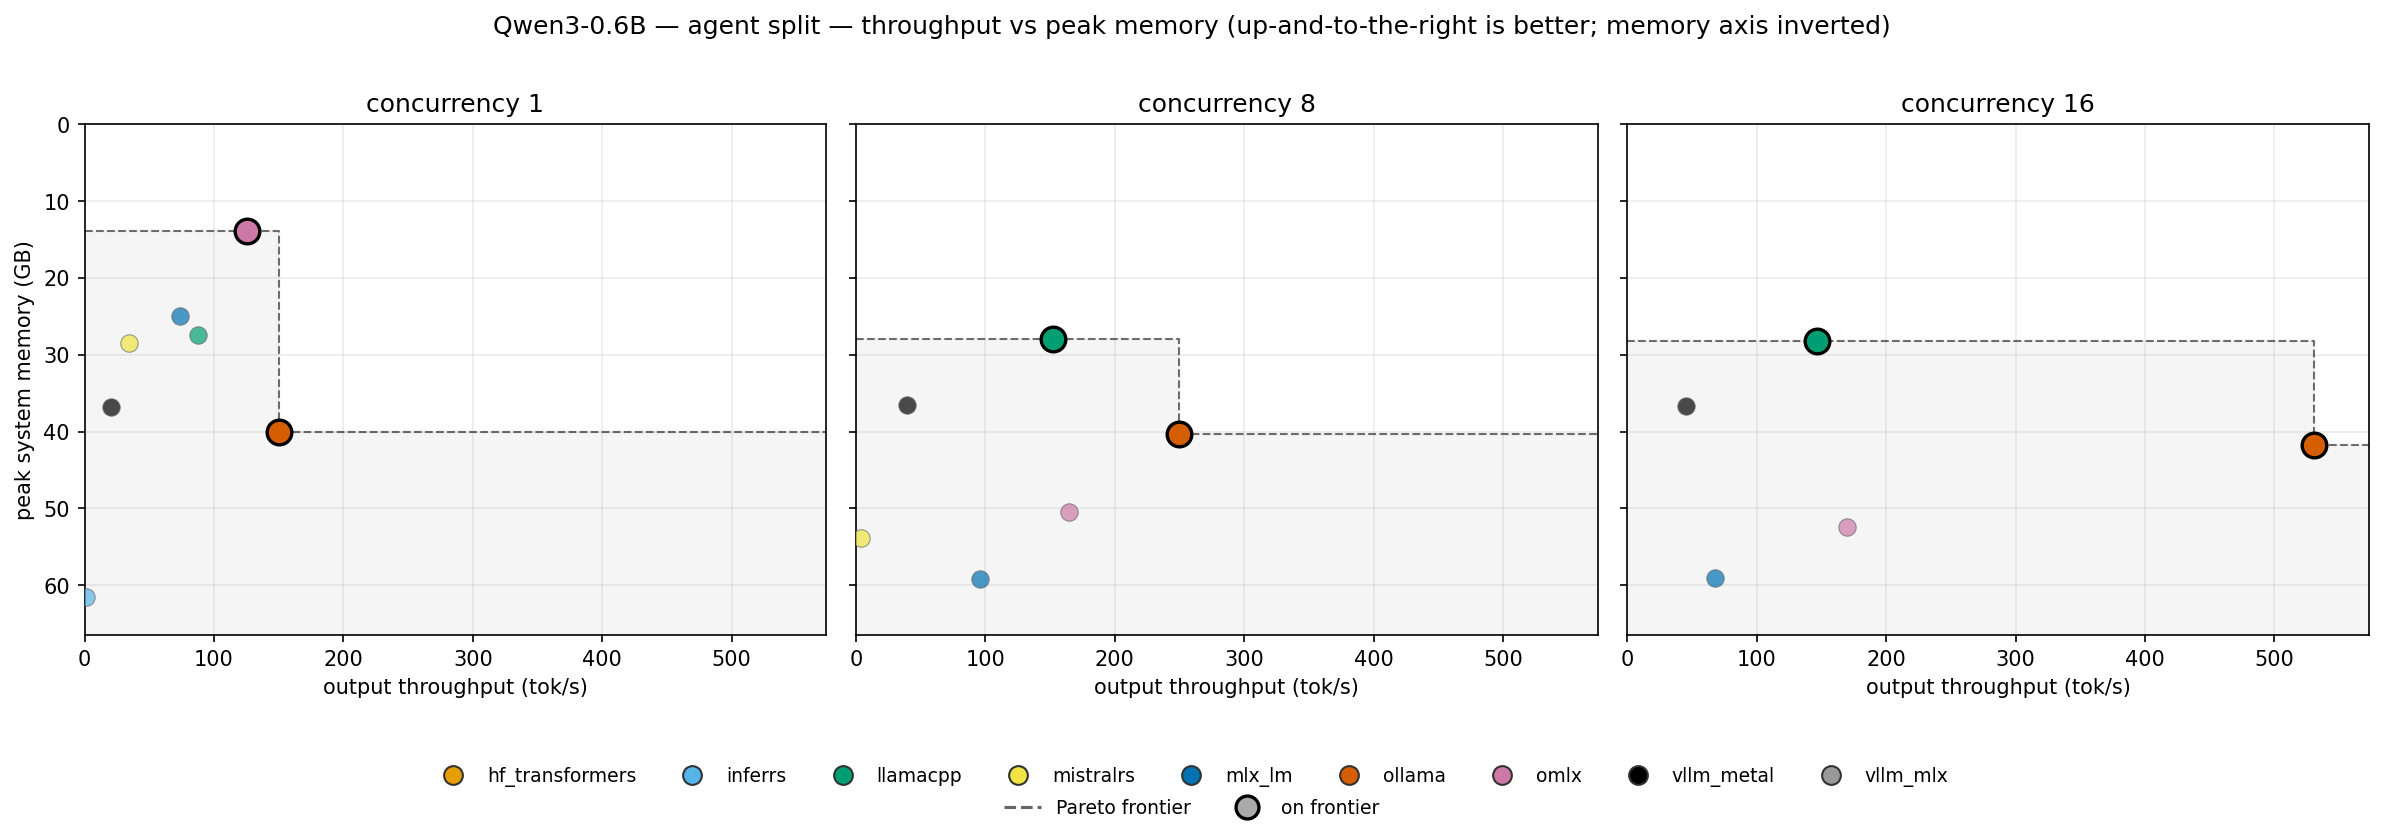
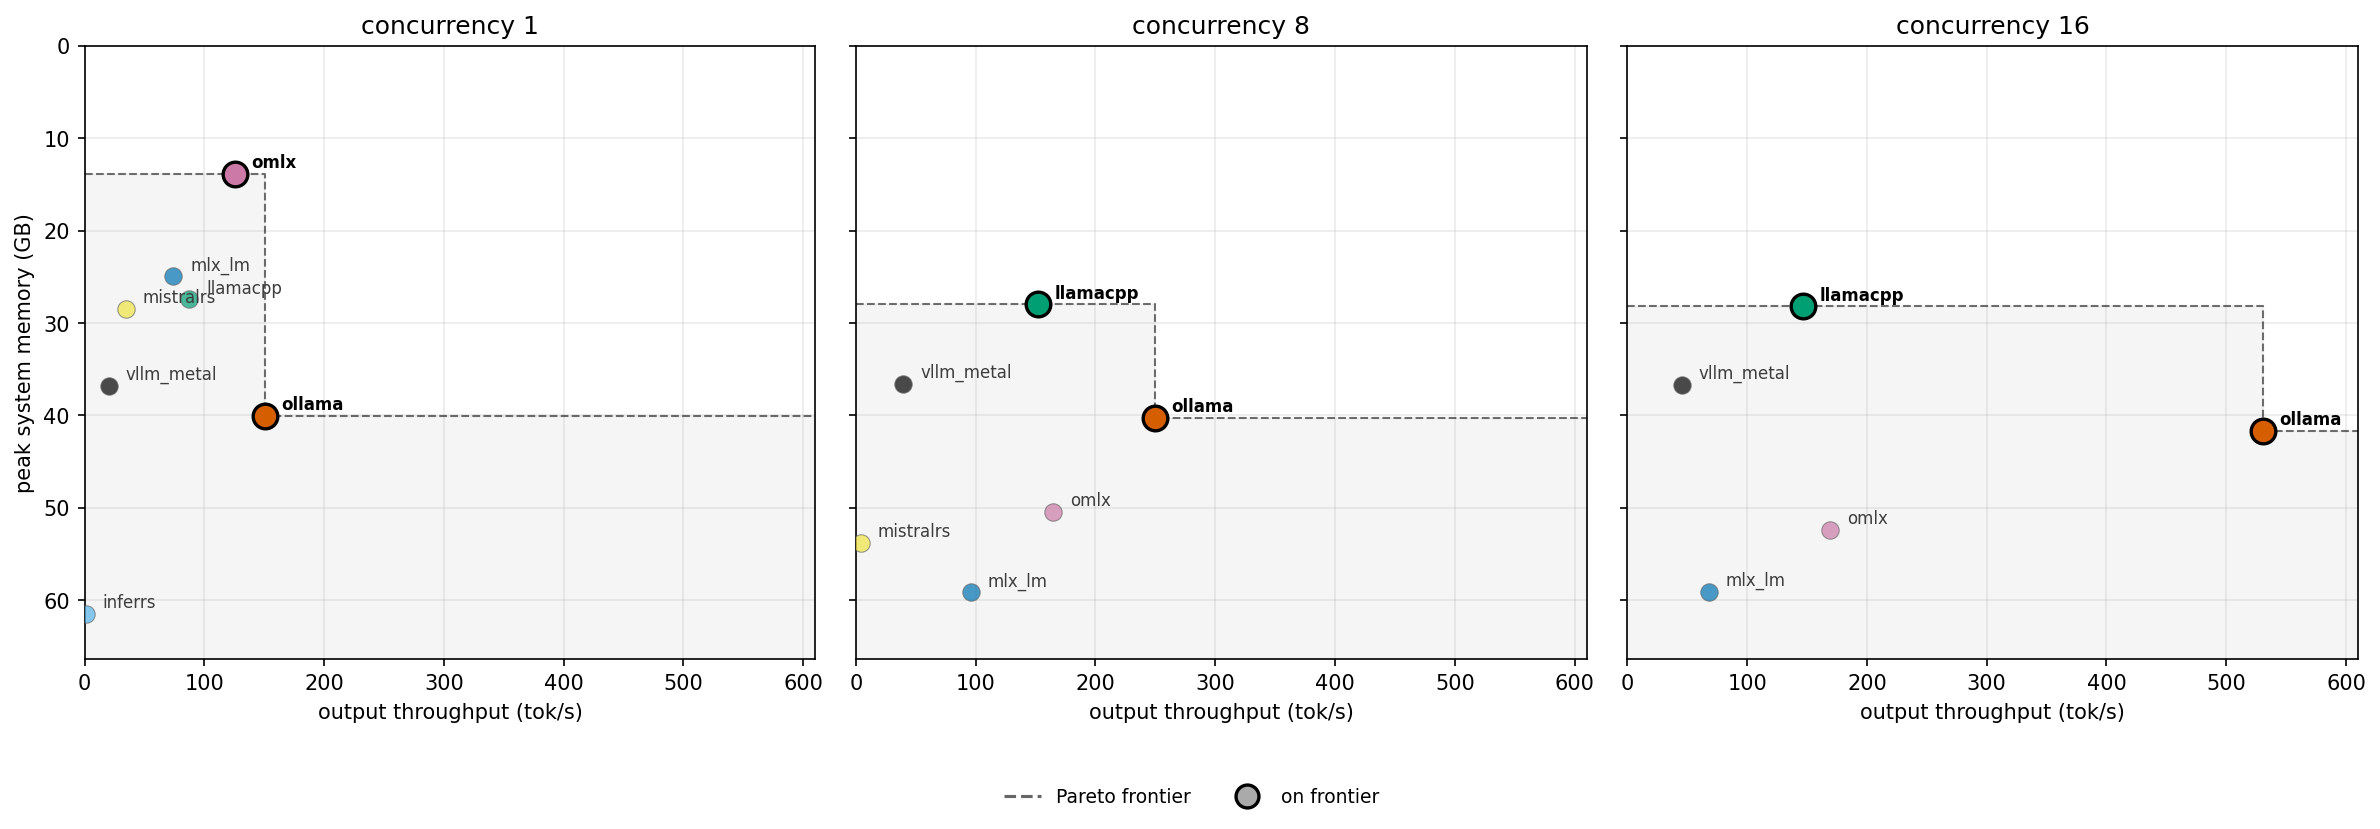
draw: inline per-point labels; drop suptitle (paper caption handles it)
Framework identity carried by inline labels next to each marker (bold
for frontier points, regular for dominated) instead of the previous
figure-level color legend — easier to read at a glance on a static
page and more paper-ready. Kept the small styling legend (frontier
line + on-frontier marker cue). Title removed — the paper caption
will explain the figure. Bumped x-axis headroom to 1.15× the max so
rightmost labels like "llamacpp" fit inside the axes.

🤖 Generated with [Claude Code](https://claude.com/claude-code)

diff --git a/draw/plot_pareto.py b/draw/plot_pareto.py
@@ -127,7 +127,7 @@ def main() -> None:
     tput_vals = [v for ccs in tput.values() for v in ccs.values() if v > 0]
     mem_vals = [v for ccs in mem.values() for v in ccs.values()]
     x_lo = 0
-    x_hi = max(tput_vals) * 1.08
+    x_hi = max(tput_vals) * 1.15  # slight headroom so inline labels don't clip
     y_lo = 0
     y_hi = max(mem_vals) * 1.08 if mem_vals else 1
 
@@ -185,6 +185,17 @@ def main() -> None:
                 alpha=1.0 if on_front else 0.7,
                 zorder=4 if on_front else 3,
             )
+            # Inline label next to each marker. Offset in pixels so placement
+            # is stable regardless of data scale. Frontier points get bold
+            # black, dominated get normal dark gray.
+            ax.annotate(
+                fw, (x, y),
+                xytext=(8, 3), textcoords="offset points",
+                fontsize=8,
+                fontweight="bold" if on_front else "normal",
+                color="black" if on_front else "#3d3d3d",
+                zorder=5,
+            )
 
         ax.set_xlim(x_lo, x_hi)
         # Invert the memory axis so "less memory" sits *higher* on the plot.
@@ -197,14 +208,9 @@ def main() -> None:
 
     axes[0].set_ylabel("peak system memory (GB)")
 
-    # Framework legend (one colored dot per framework) + a small inset that
-    # explains the frontier / dominated styling.
-    fw_handles = [
-        plt.Line2D([0], [0], marker="o", color="white",
-                   markerfacecolor=colors[fw], markeredgecolor="#333",
-                   markersize=9, linestyle="None", label=fw)
-        for fw in all_fw
-    ]
+    # Small style legend — explains dashed line + bold-circle cue.
+    # Framework identity is carried by inline labels next to each point,
+    # so no per-framework legend. Title removed — paper caption handles it.
     style_handles = [
         plt.Line2D([0], [0], linestyle="--", color="black", alpha=0.6,
                    label="Pareto frontier"),
@@ -214,20 +220,11 @@ def main() -> None:
                    label="on frontier"),
     ]
     fig.legend(
-        handles=fw_handles,
-        loc="upper center", bbox_to_anchor=(0.5, 0.055),
-        ncol=len(all_fw), frameon=False, fontsize=9,
-    )
-    fig.legend(
         handles=style_handles,
-        loc="upper center", bbox_to_anchor=(0.5, 0.015),
+        loc="upper center", bbox_to_anchor=(0.5, 0.02),
         ncol=2, frameon=False, fontsize=9,
     )
-    fig.suptitle(
-        f"{args.model} — {args.split} split — throughput vs peak memory "
-        "(up-and-to-the-right is better; memory axis inverted)"
-    )
-    fig.tight_layout(rect=(0, 0.09, 1, 0.97))
+    fig.tight_layout(rect=(0, 0.05, 1, 1))
 
     out = args.out or REPO_ROOT / "draw" / f"pareto_{args.model}_{args.split}.png"
     out.parent.mkdir(parents=True, exist_ok=True)
